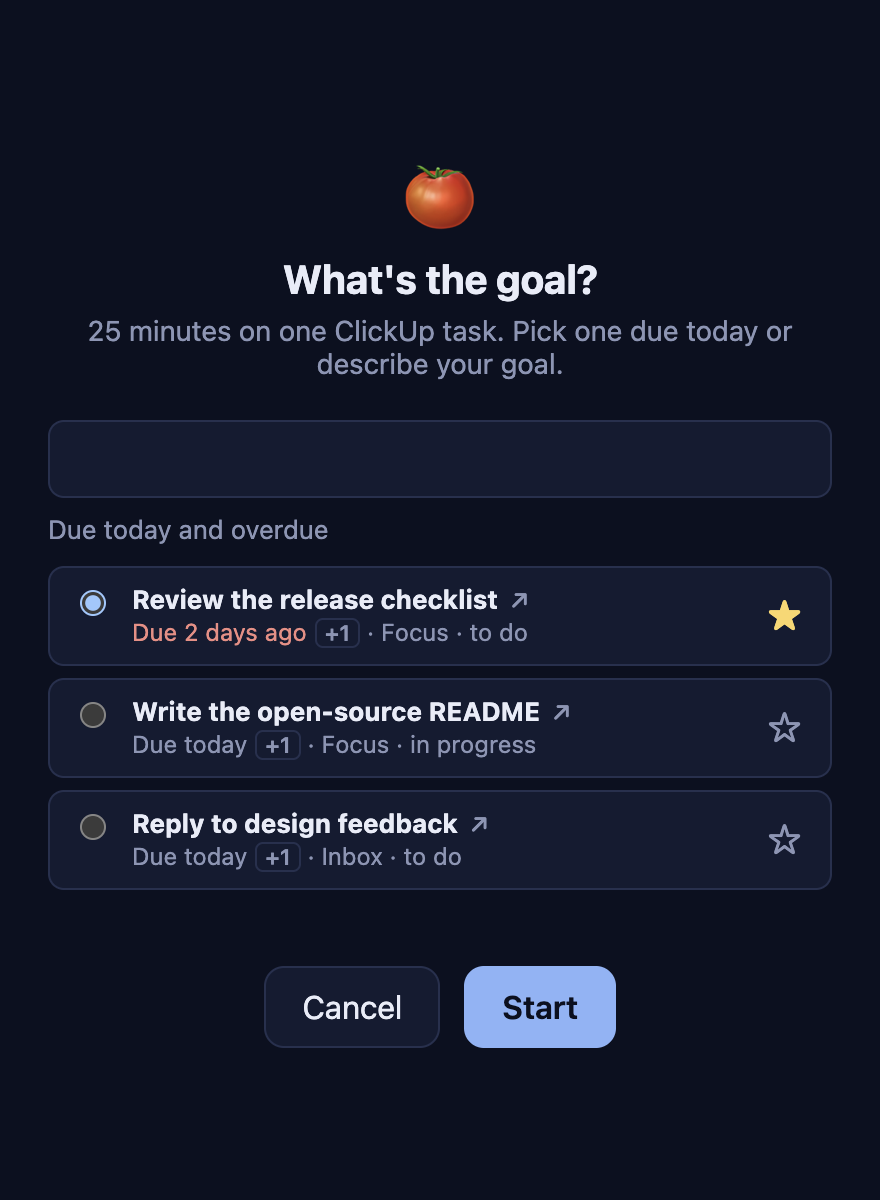
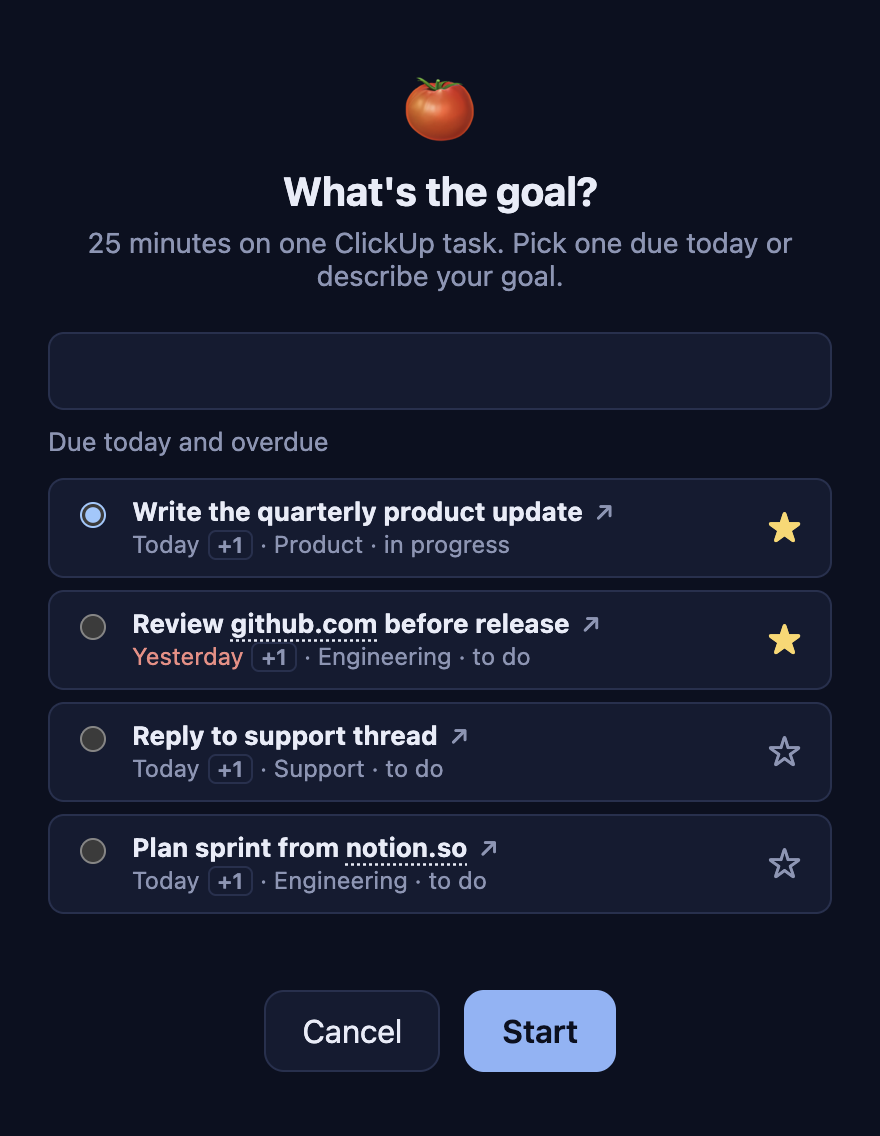
fix: show links in pomodoro task names as their domain
URLs in ClickUp task titles render as the domain with a dotted underline and the full
URL as a tooltip, in the task picker and the timer. Version 1.7.1.

diff --git a/test/links.test.js b/test/links.test.js
@@ -1,0 +1,30 @@
+const test = require('node:test');
+const assert = require('node:assert/strict');
+const fs = require('node:fs');
+const path = require('node:path');
+const vm = require('node:vm');
+
+const source = fs.readFileSync(path.join(__dirname, '../src/renderer/links.js'), 'utf8');
+const parts = vm.runInNewContext(`${source};titleParts`, { URL });
+// Objects from another context have a different prototype, so compare plain copies.
+const titleParts = (text) => JSON.parse(JSON.stringify(parts(text)));
+
+test('titleParts shows links in a title as their domain', () => {
+  assert.deepEqual(titleParts('Review https://www.github.com/rosinghal/focus/pull/3 today'), [
+    { text: 'Review ' },
+    { text: 'github.com', url: 'https://www.github.com/rosinghal/focus/pull/3' },
+    { text: ' today' },
+  ]);
+  assert.deepEqual(titleParts('Read (http://docs.example.org/a?b=1).'), [
+    { text: 'Read (' },
+    { text: 'docs.example.org', url: 'http://docs.example.org/a?b=1' },
+    { text: ').' },
+  ]);
+  assert.deepEqual(titleParts('https://a.com and https://b.io/x'), [
+    { text: 'a.com', url: 'https://a.com' },
+    { text: ' and ' },
+    { text: 'b.io', url: 'https://b.io/x' },
+  ]);
+  assert.deepEqual(titleParts('No links here'), [{ text: 'No links here' }]);
+  assert.deepEqual(titleParts(''), []);
+});

diff --git a/src/renderer/links.js b/src/renderer/links.js
@@ -1,0 +1,30 @@
+const URL_PATTERN = /https?:\/\/[^\s<>"']+[^\s<>"'.,;:!?)\]]/g;
+
+const linkDomain = (url) => {
+  try {
+    return new URL(url).hostname.replace(/^www\./, '');
+  } catch {
+    return null;
+  }
+};
+
+const titleParts = (text) => {
+  const parts = [];
+  let last = 0;
+  for (const match of text.matchAll(URL_PATTERN)) {
+    const domain = linkDomain(match[0]);
+    if (!domain) continue;
+    if (match.index > last) parts.push({ text: text.slice(last, match.index) });
+    parts.push({ text: domain, url: match[0] });
+    last = match.index + match[0].length;
+  }
+  if (last < text.length) parts.push({ text: text.slice(last) });
+  return parts;
+};
+
+const titleNodes = (text) =>
+  titleParts(text).map(({ text: partText, url }) =>
+    url
+      ? Object.assign(document.createElement('span'), { className: 'title-link', textContent: partText, title: url })
+      : document.createTextNode(partText),
+  );

diff --git a/src/renderer/styles.css b/src/renderer/styles.css
@@ -196,6 +196,8 @@ textarea:focus { outline: 2px solid var(--accent); outline-offset: 1px; }
 .timer-close:hover { background: var(--border); color: var(--text); }
 .timer-mode { padding-right: 32px; font-size: 12px; text-transform: uppercase; letter-spacing: 1px; color: var(--muted); }
 .timer-time { font-size: 34px; font-weight: 300; font-variant-numeric: tabular-nums; }
+.title-link { text-decoration: underline dotted; text-underline-offset: 3px; }
+.timer-task:has(.title-link) { text-decoration: none; padding-bottom: 4px; }
 .timer-task { display: block; margin-top: 2px; color: var(--accent); font-size: 14px; white-space: nowrap; overflow: hidden; text-overflow: ellipsis; -webkit-app-region: no-drag; }
 .timer-summary { margin-top: 12px; padding-top: 10px; border-top: 1px solid var(--border); font-size: 13px; }
 .timer-summary p + p { margin-top: 4px; }

diff --git a/src/renderer/pomodoro.js b/src/renderer/pomodoro.js
@@ -46,7 +46,8 @@ const option = (value, title, detail, checked, action, link) => {
   label.className = 'task';
   const radio = Object.assign(document.createElement('input'), { type: 'radio', name: 'task', value, checked });
   const text = document.createElement('span');
-  const strong = Object.assign(document.createElement('strong'), { textContent: title });
+  const strong = document.createElement('strong');
+  strong.append(...titleNodes(title));
   if (link) strong.append(link);
   text.append(strong, detail);
   label.append(radio, text, ...(action ? [action] : []));

diff --git a/src/renderer/timer.js b/src/renderer/timer.js
@@ -26,7 +26,7 @@ const render = (next) => {
   $('mode').textContent = view.mode;
   $('time').classList.toggle('hidden', !view.until);
   showTime();
-  $('task').textContent = view.task?.name ?? '';
+  $('task').replaceChildren(...titleNodes(view.task?.name ?? ''));
   const { summary } = view;
   $('summary').classList.toggle('hidden', !summary);
   if (!summary) return;

diff --git a/src/renderer/timer.html b/src/renderer/timer.html
@@ -24,6 +24,7 @@
       <button type="button" class="timer-close" id="close" aria-label="Close">×</button>
     </main>
     <script src="escape.js"></script>
+    <script src="links.js"></script>
     <script src="timer.js"></script>
   </body>
 </html>

diff --git a/src/renderer/pomodoro.html b/src/renderer/pomodoro.html
@@ -28,6 +28,7 @@
       </form>
     </main>
     <script src="escape.js"></script>
+    <script src="links.js"></script>
     <script src="pomodoro.js"></script>
   </body>
 </html>

diff --git a/AGENTS.md b/AGENTS.md
@@ -56,7 +56,7 @@ npm run dist     # unsigned macOS .dmg in dist/ (CSC_IDENTITY_AUTO_DISCOVERY=fal
 | `src/store.js` | JSON persistence in `userData` (`config.json`, `state.json`, `history.json`). |
 | `src/icon.js` | Tray icon drawn as a BGRA bitmap (no image assets). |
 | `src/preload.js` | `window.focusLock` bridge exposed to renderers. |
-| `src/renderer/` | `lock.*` (lock screen + keypad), `settings.*`, `blocked.*` (session offer and in-session notice), `pomodoro.*` (goal and task picker), `timer.*` (top-right pomodoro timer and summary), `reminder.*` (meeting reminder), `quit.*` (passcode to quit), `escape.js` (Esc closes the window unless a `<dialog>` is open; not used on the lock screen), shared `styles.css`. |
+| `src/renderer/` | `lock.*` (lock screen + keypad), `settings.*`, `blocked.*` (session offer and in-session notice), `pomodoro.*` (goal and task picker), `timer.*` (top-right pomodoro timer and summary), `reminder.*` (meeting reminder), `quit.*` (passcode to quit), `escape.js` (Esc closes the window unless a `<dialog>` is open; not used on the lock screen), `links.js` (`titleNodes`: URLs in task names shown as their domain, dotted underline, full URL as tooltip; used by pomodoro and timer, tested via `vm`), shared `styles.css`. |
 | `scripts/install-local.sh` | Build and install/replace `/Applications/Focus.app`, then relaunch it. |
 | `test/` | Unit tests for the pure modules. |
 | `docs/screenshots/` | README screenshots, rendered from the real renderers with fake data (never from a personal setup). |

diff --git a/README.md b/README.md
@@ -53,7 +53,8 @@ works. End it early from the menu bar (it still counts as today's use).
 searches the tasks assigned to you as you type and offers a new one (assigned to you, due today): **Create** just adds
 it to ClickUp, **Create and start** also starts the pomodoro. The star on a task sets or clears its high priority in
 ClickUp, and tasks are listed by priority. **+1** after a due date moves the task to tomorrow, and **↗** opens it in
-the browser. `#hashtags` in a new task's goal become ClickUp tags (`Write notes #docs`). You get 25 minutes of focus, then a 5-minute break. A
+the browser. `#hashtags` in a new task's goal become ClickUp tags (`Write notes #docs`). Links in
+task names show as their domain with a dotted underline (hover for the full URL). You get 25 minutes of focus, then a 5-minute break. A
 small always-on-top window shows the time left and, when it ends, a summary with **Mark task complete**.
 
 <img src="docs/screenshots/timer.png" alt="Pomodoro timer" width="300" />

diff --git a/CHANGELOG.md b/CHANGELOG.md
@@ -3,6 +3,13 @@
 All notable changes to this project are documented here. The format follows
 [Keep a Changelog](https://keepachangelog.com/en/1.1.0/), and versions follow [Semantic Versioning](https://semver.org).
 
+## [1.7.1] - 2026-10-25
+
+### Changed
+
+- Pomodoro picker and timer: links in a ClickUp task name show as just the domain with a dotted underline; hover for
+  the full URL.
+
 ## [1.7.0] - 2026-10-25
 
 ### Added
